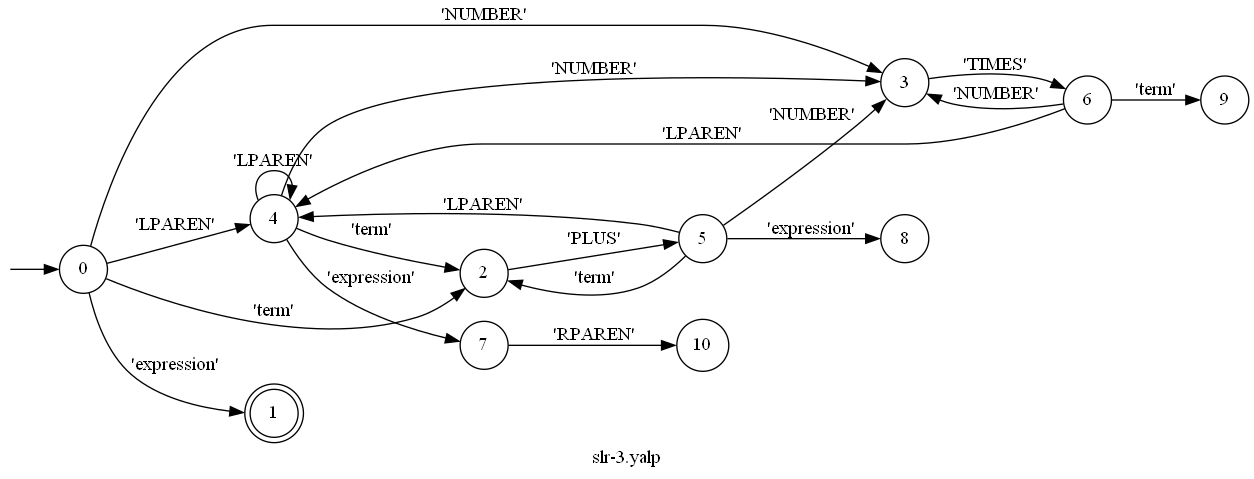
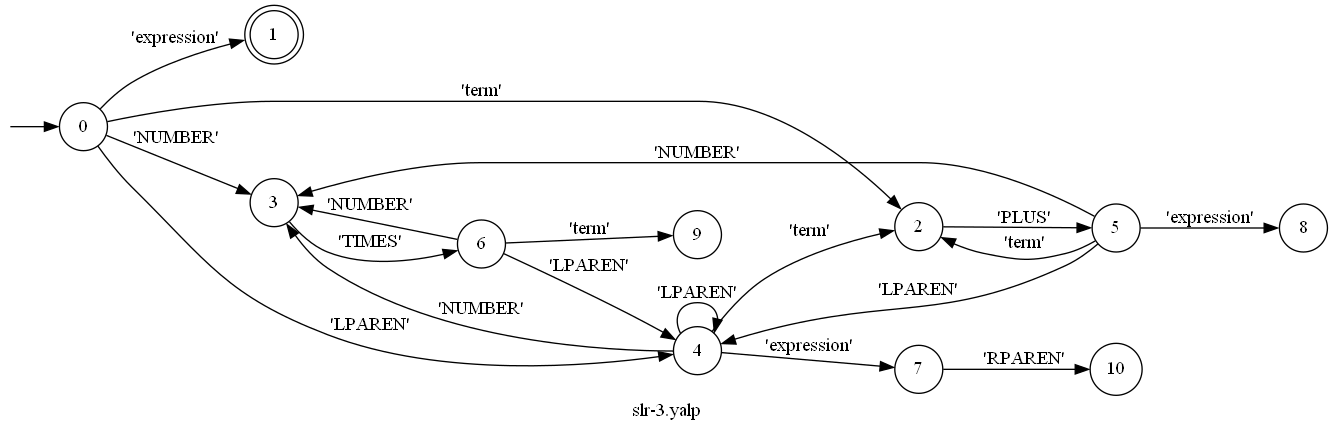
Modifications to accept lexer

diff --git a/Parser.py b/Parser.py
@@ -2,13 +2,38 @@ import sys
 from ExtendedAutomata import *
 import copy
 import os
-from Scanner import *
+from YaprScanner import yapr_file_simulation
 from Automata import Automata, draw_automata
 from GrammarAutomata import *
 import pandas as pd
 
 
+def clean_yapr_comments(raw_input):
+    clean_string = ''
+    can_append = True
+    i = 0
+    while i < len(raw_input):
+        if raw_input[i] == '/':
+            if (i+1 < len(raw_input) and raw_input[i+1] == '*'):
+                can_append = False
+                i += 2  # skip over the comment start
+                continue
+        elif raw_input[i] == '*':
+            if (i+1 < len(raw_input) and raw_input[i+1] == '/'):
+                can_append = True
+                i += 2  # skip over the comment end
+                continue
+        if can_append:
+            clean_string += raw_input[i]
+            i += 1
+        else:
+            i += 1
+    return clean_string
 
+
+def read_file(file_path):
+    with open(file_path, 'r') as file:
+        return file.read()
 
 def build_goto_table(tokens:list(), automata:Automata, states_len:int) -> list():
     goto_table = [{i:None for i in tokens } for _ in range(states_len)]
@@ -71,9 +96,9 @@ def calculate_reduce_table(action_table:list, equivalent_states:list, production
 def main():
     extended_automata = ExtendedAutomata([0, 1, 2, 3, 4, 5, 6, 7, 8, 9, 10, 11, 12], {' ', 'p', 'c', 'x', 'H', 'a', 'e', 'y', 'r', ';', '\t', 'C', 'u', 'Z', 'E', 'O', 'w', 'j', 'L', '\n', 'n', 'm', 'g', 'R', 'N', 'S', 'A', 'o', 'G', 'M', 'd', 'B', 'f', 'J', 'K', 'k', 'P', 'X', 'i', 'v', 's', 'U', 'b', 'Y', 'F', 'T', '%', ':', 'l', 'h', 'q', 'W', 'I', 'V', 't', 'D', '|', 'z', 'Q'}, [((0, ' '), 1), ((0, 'p'), 2), ((0, 'c'), 2), ((0, 'x'), 2), ((0, 'H'), 3), ((0, 'a'), 2), ((0, 'e'), 2), ((0, 'y'), 2), ((0, 'r'), 2), ((0, ';'), 4), ((0, '\t'), 1), ((0, 'C'), 3), ((0, 'u'), 2), ((0, 'Z'), 3), ((0, 'E'), 3), ((0, 'O'), 3), ((0, 'w'), 2), ((0, 'j'), 2), ((0, 'L'), 3), ((0, '\n'), 1), ((0, 'n'), 2), ((0, 'm'), 2), ((0, 'g'), 2), ((0, 'R'), 3), ((0, 'N'), 3), ((0, 'S'), 3), ((0, 'A'), 3), ((0, 'o'), 2), ((0, 'G'), 3), ((0, 'M'), 3), ((0, 'd'), 2), ((0, 'B'), 3), ((0, 'f'), 2), ((0, 'J'), 3), ((0, 'K'), 3), ((0, 'k'), 2), ((0, 'P'), 3), ((0, 'X'), 3), ((0, 'i'), 2), ((0, 'v'), 2), ((0, 's'), 2), ((0, 'U'), 3), ((0, '|'), 5), ((0, 'b'), 2), ((0, 'Y'), 3), ((0, 'F'), 3), ((0, 'T'), 3), ((0, '%'), 6), ((0, ':'), 7), ((0, 'l'), 2), ((0, 'h'), 2), ((0, 'q'), 2), ((0, 'W'), 3), ((0, 'I'), 3), ((0, 't'), 2), ((0, 'V'), 3), ((0, 'D'), 3), ((0, 'z'), 2), ((0, 'Q'), 3), ((1, ' '), 1), ((1, '\t'), 1), ((1, '\n'), 1), ((2, 'p'), 2), ((2, 'c'), 2), ((2, 'x'), 2), ((2, 'a'), 2), ((2, 'e'), 2), ((2, 'y'), 2), ((2, 'r'), 2), ((2, 'u'), 2), ((2, 'w'), 2), ((2, 'j'), 2), ((2, 'n'), 2), ((2, 'm'), 2), ((2, 'g'), 2), ((2, 'o'), 2), ((2, 'd'), 2), ((2, 'f'), 2), ((2, 'k'), 2), ((2, 'i'), 2), ((2, 'v'), 2), ((2, 's'), 2), ((2, 'b'), 2), ((2, 'l'), 2), ((2, 'h'), 2), ((2, 'q'), 2), ((2, 't'), 2), ((2, 'z'), 2), ((3, 'H'), 3), ((3, 'C'), 3), ((3, 'Z'), 3), ((3, 'E'), 3), ((3, 'O'), 3), ((3, 'L'), 3), ((3, 'R'), 3), ((3, 'N'), 3), ((3, 'S'), 3), ((3, 'A'), 3), ((3, 'G'), 3), ((3, 'M'), 3), ((3, 'B'), 3), ((3, 'J'), 3), ((3, 'K'), 3), ((3, 'P'), 3), ((3, 'X'), 3), ((3, 'U'), 3), ((3, 'Y'), 3), ((3, 'F'), 3), ((3, 'T'), 3), ((3, 'W'), 3), ((3, 'I'), 3), ((3, 'V'), 3), ((3, 'D'), 3), ((3, 'Q'), 3), ((6, 't'), 8), ((8, 'o'), 9), ((9, 'k'), 10), ((10, 'e'), 11), ((11, 'n'), 12)], 0, [1, 2, 3, 4, 5, 7, 12], [0, 1, 2, 6, 4, 5, 3])
     # ruta_archivo = sys.argv[1]
-    ruta_archivo = "slr-1.yalp"
+    ruta_archivo = "slr-3.yalp"
     file_content = read_file(ruta_archivo)
-    file_tokens = file_simulation(extended_automata, clean_comments(file_content))
+    file_tokens = yapr_file_simulation(extended_automata, clean_yapr_comments(file_content))
     productions = []
 
     # NON TERMINAL, [ELEMENT1, ELEMENT2, ...],-1
@@ -243,7 +268,7 @@ def main():
 
     print('\nSimulation:')
     dummy_input = [('TOKEN', 'ID'), ('TOKEN', 'TIMES'), ('TOKEN', 'ID'), ('TOKEN', 'PLUS'),('TOKEN', 'ID')]
-    simulationTable(slr_automata, dummy_input, productions, action_table, goto_table)
+    # simulationTable(slr_automata, dummy_input, productions, action_table, goto_table)
 
 
 def simulationTable(automata:Automata, input_simbols:list(), productions:list(), action_table:list(), goto_table: list()):

diff --git a/YaprScanner.py b/YaprScanner.py
@@ -1,31 +1,8 @@
 
-def clean_comments(raw_input):
-    clean_string = ''
-    can_append = True
-    i = 0
-    while i < len(raw_input):
-        if raw_input[i] == '/':
-            if (i+1 < len(raw_input) and raw_input[i+1] == '*'):
-                can_append = False
-                i += 2  # skip over the comment start
-                continue
-        elif raw_input[i] == '*':
-            if (i+1 < len(raw_input) and raw_input[i+1] == '/'):
-                can_append = True
-                i += 2  # skip over the comment end
-                continue
-        if can_append:
-            clean_string += raw_input[i]
-            i += 1
-        else:
-            i += 1
-    return clean_string
 
 
 
-def read_file(file_path):
-    with open(file_path, 'r') as file:
-        return file.read()
+
     
 
 
@@ -50,7 +27,7 @@ def match_automata_returns(recognized_type, i):
 
 
 
-def file_simulation(extended_automata, test_string):
+def yapr_file_simulation(extended_automata, test_string):
     recognized_tokens = []
     test_string = test_string + ''
     current_sim_status = 0
